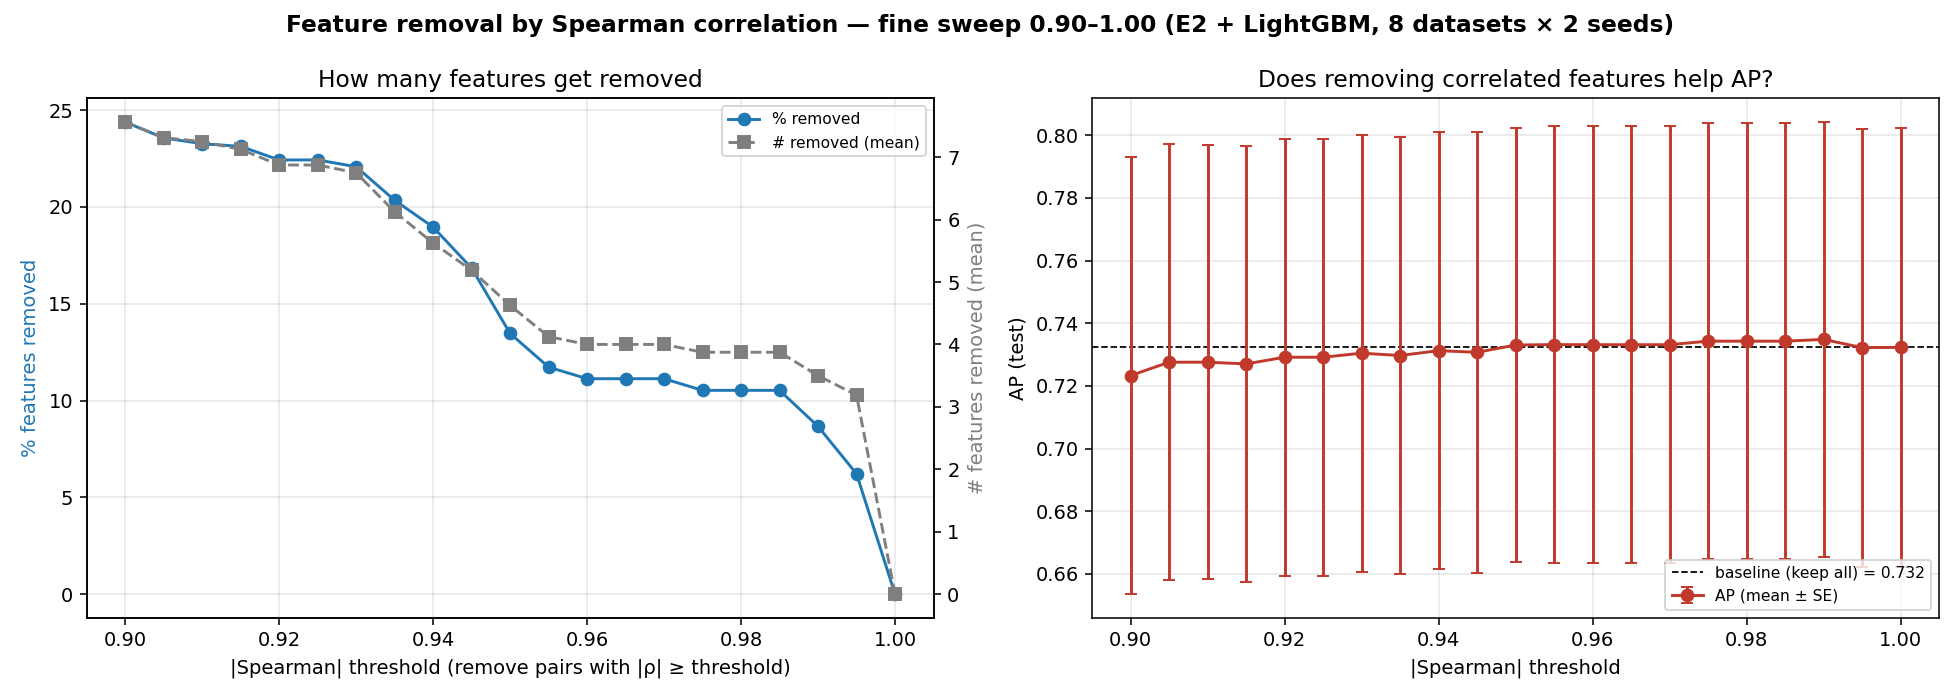
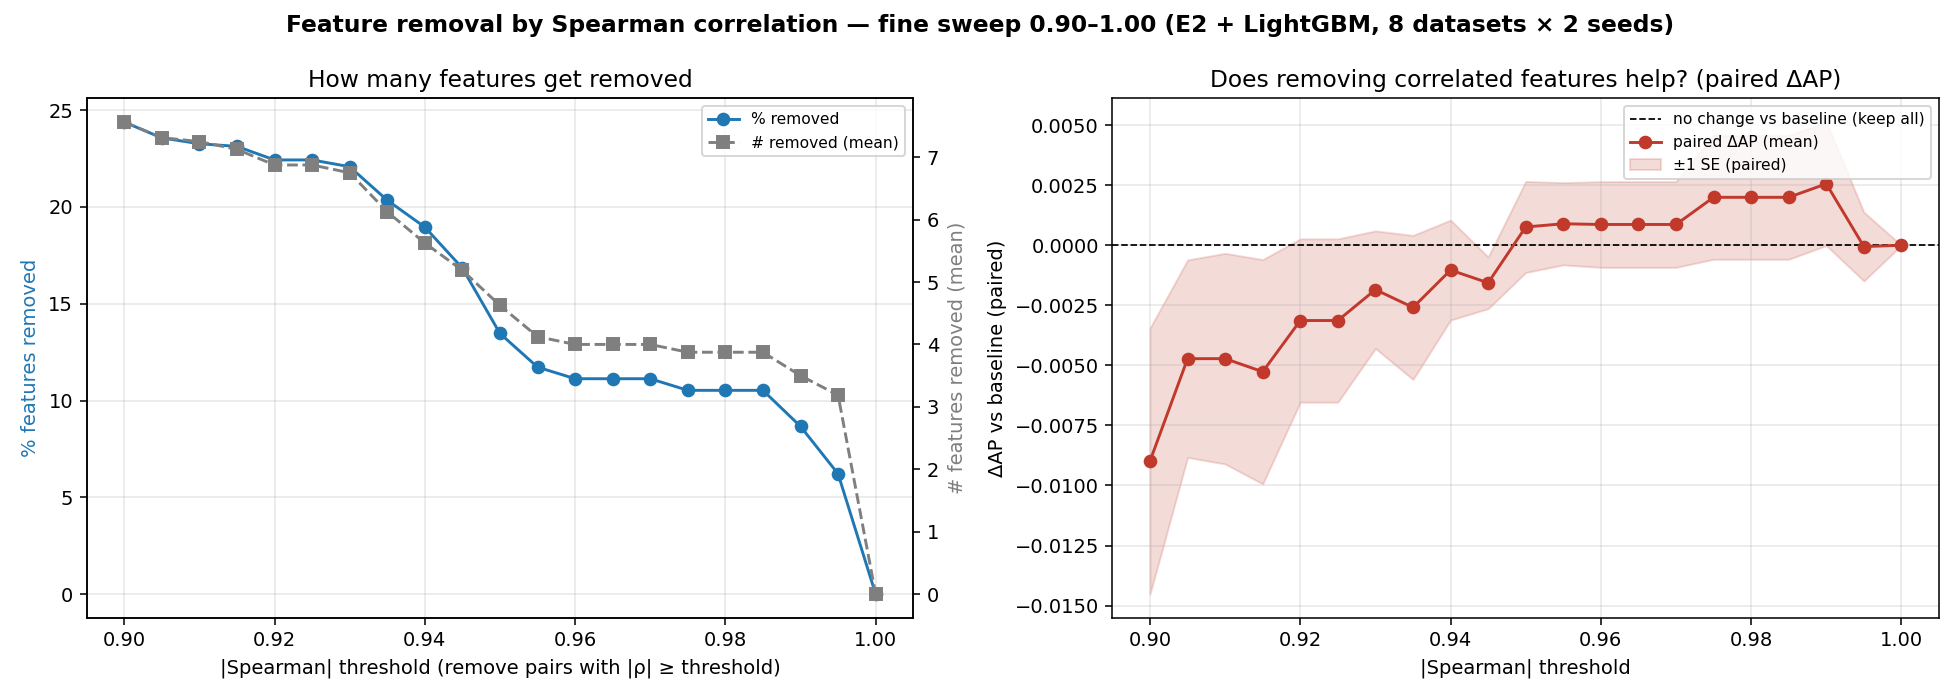
Part 4: fine-sweep figure now shows paired ΔAP ±SE (not raw-AP SE)
The raw-AP error bars mixed between-dataset variance and were misleading; the
meaningful quantity is the paired ΔAP, whose ±SE band straddles zero across
0.90-1.00 (no significant effect; the +0.002 bump at 0.97-0.99 is not significant).

diff --git a/valsplit_study/analyze_featreduce.py b/valsplit_study/analyze_featreduce.py
@@ -27,7 +27,8 @@ for thr in thrs:
     p = float(stats.ttest_1samp(dl, 0).pvalue) if len(dl) >= 3 and np.std(dl) > 0 else np.nan
     rec.append({"thr": thr, "n_removed": s.n_removed.mean(), "pct": s.pct_removed.mean(),
                 "ap": s.ap.mean(), "ap_se": s.ap.std() / np.sqrt(len(s)),
-                "dAP": s.dAP.mean(), "p": p, "n": len(s)})
+                "dAP": s.dAP.mean(), "dAP_se": (dl.std(ddof=1) / np.sqrt(len(dl))) if len(dl) > 1 else np.nan,
+                "p": p, "n": len(s)})
 A = pd.DataFrame(rec)
 
 print(f"baseline (keep all): AP={ap0:.4f}  (n_datasets×seeds por umbral = {A.n.iloc[0]})")
@@ -49,16 +50,18 @@ a0.set_xlabel("|Spearman| threshold (remove pairs with |ρ| ≥ threshold)")
 a0.set_ylabel("% features removed", color="#1f77b4"); a0b.set_ylabel("# features removed (mean)", color="#7f7f7f")
 a0.set_title("How many features get removed"); a0.grid(alpha=.3)
 a0.legend(handles=[l1, l2], fontsize=8, loc="upper right")
-# panel 2: AP vs umbral con SE, baseline y significancia
+# panel 2: ΔAP PAREADO vs umbral (la cantidad que importa) con banda ±SE y línea de 0
 a1 = ax[1]
-a1.axhline(ap0, color="k", ls="--", lw=.9, label=f"baseline (keep all) = {ap0:.3f}")
-a1.errorbar(A.thr, A.ap, yerr=A.ap_se, fmt="o-", color="#c0392b", capsize=3, label="AP (mean ± SE)")
+a1.axhline(0, color="k", ls="--", lw=.9, label="no change vs baseline (keep all)")
+a1.plot(A.thr, A.dAP, "o-", color="#c0392b", label="paired ΔAP (mean)")
+a1.fill_between(A.thr, A.dAP - A.dAP_se, A.dAP + A.dAP_se, color="#c0392b", alpha=.18, label="±1 SE (paired)")
 sig = A[A.p < 0.05]
 if len(sig):
-    a1.scatter(sig.thr, sig.ap, s=140, facecolors="none", edgecolors="red", linewidths=2,
+    a1.scatter(sig.thr, sig.dAP, s=140, facecolors="none", edgecolors="red", linewidths=2,
                label="p < 0.05 vs baseline", zorder=5)
-a1.set_xlabel("|Spearman| threshold"); a1.set_ylabel("AP (test)")
-a1.set_title("Does removing correlated features help AP?"); a1.legend(fontsize=8); a1.grid(alpha=.3)
+a1.set_xlabel("|Spearman| threshold"); a1.set_ylabel("ΔAP vs baseline (paired)")
+a1.set_title("Does removing correlated features help? (paired ΔAP)")
+a1.legend(fontsize=8); a1.grid(alpha=.3)
 plt.suptitle("Feature removal by Spearman correlation — fine sweep 0.90–1.00 (E2 + LightGBM, "
              f"{int(A.n.iloc[0]/2)} datasets × 2 seeds)", fontweight="bold")
 plt.tight_layout(); plt.savefig(f"{STUDY}/fig_featreduce_fine.png", dpi=140); plt.close()